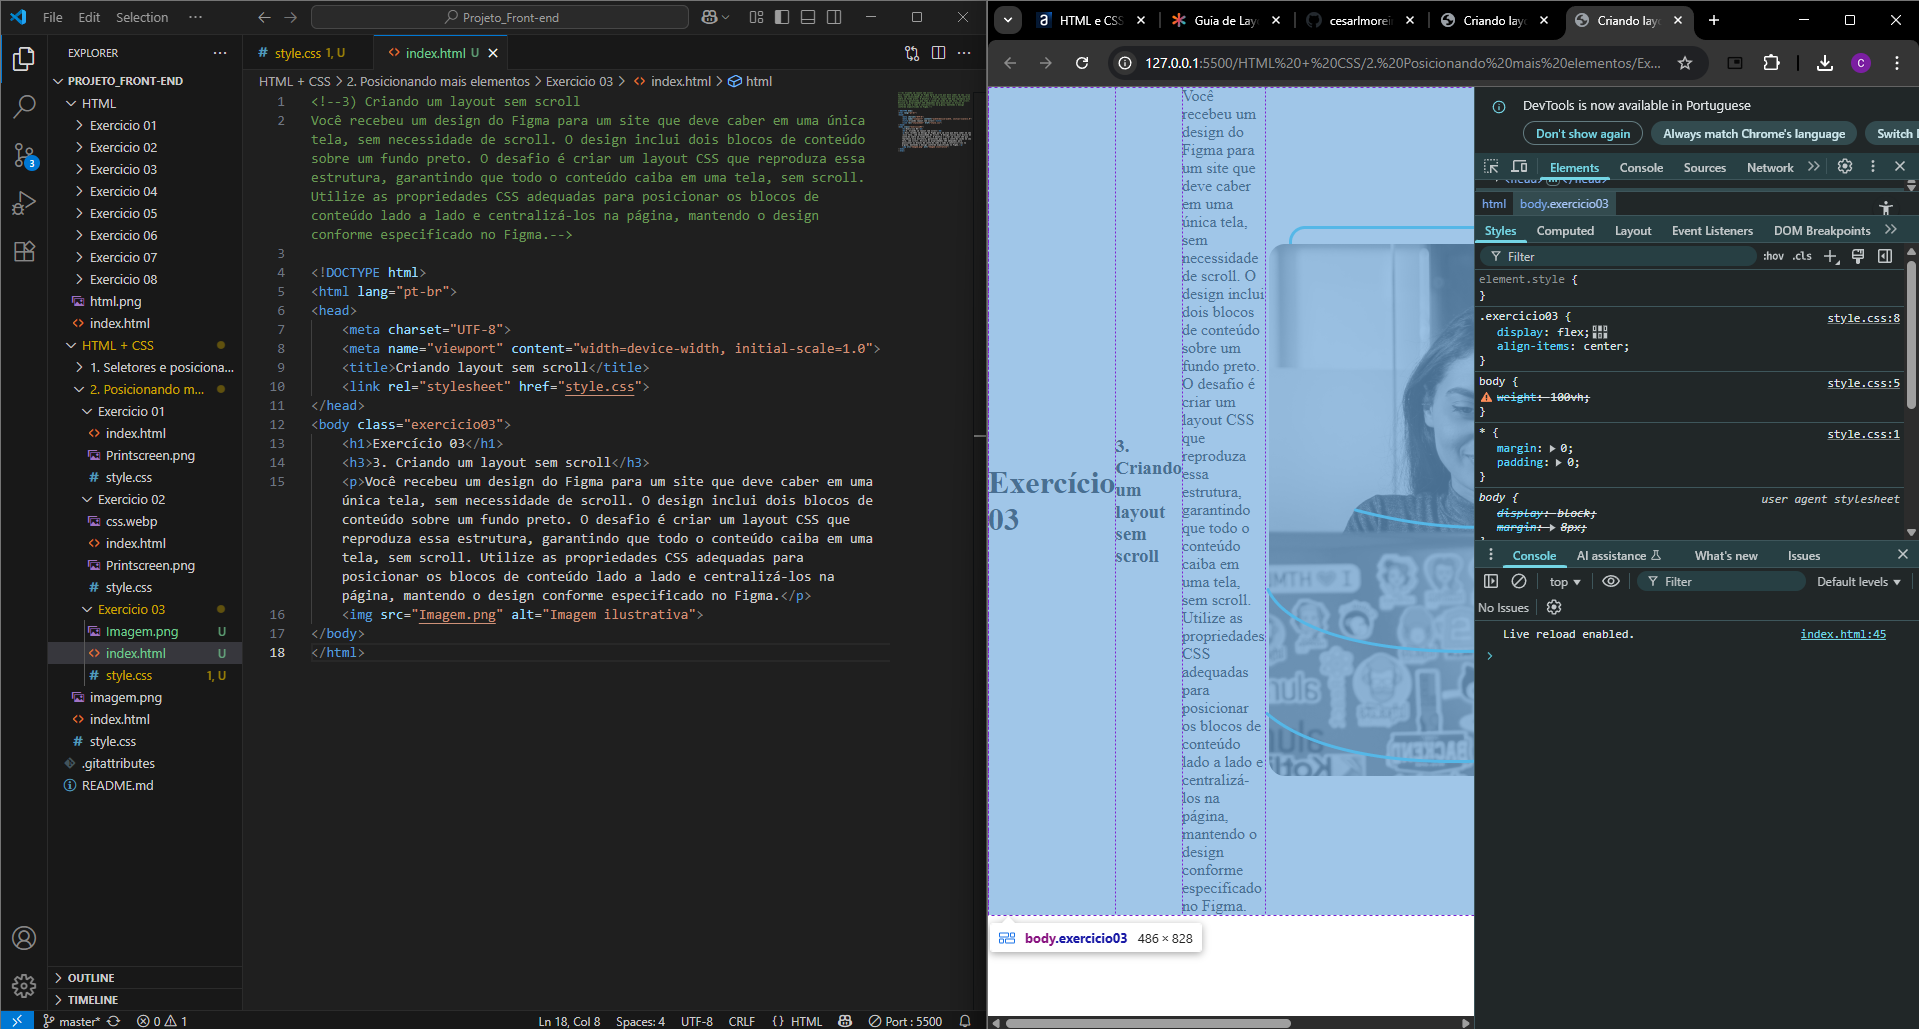
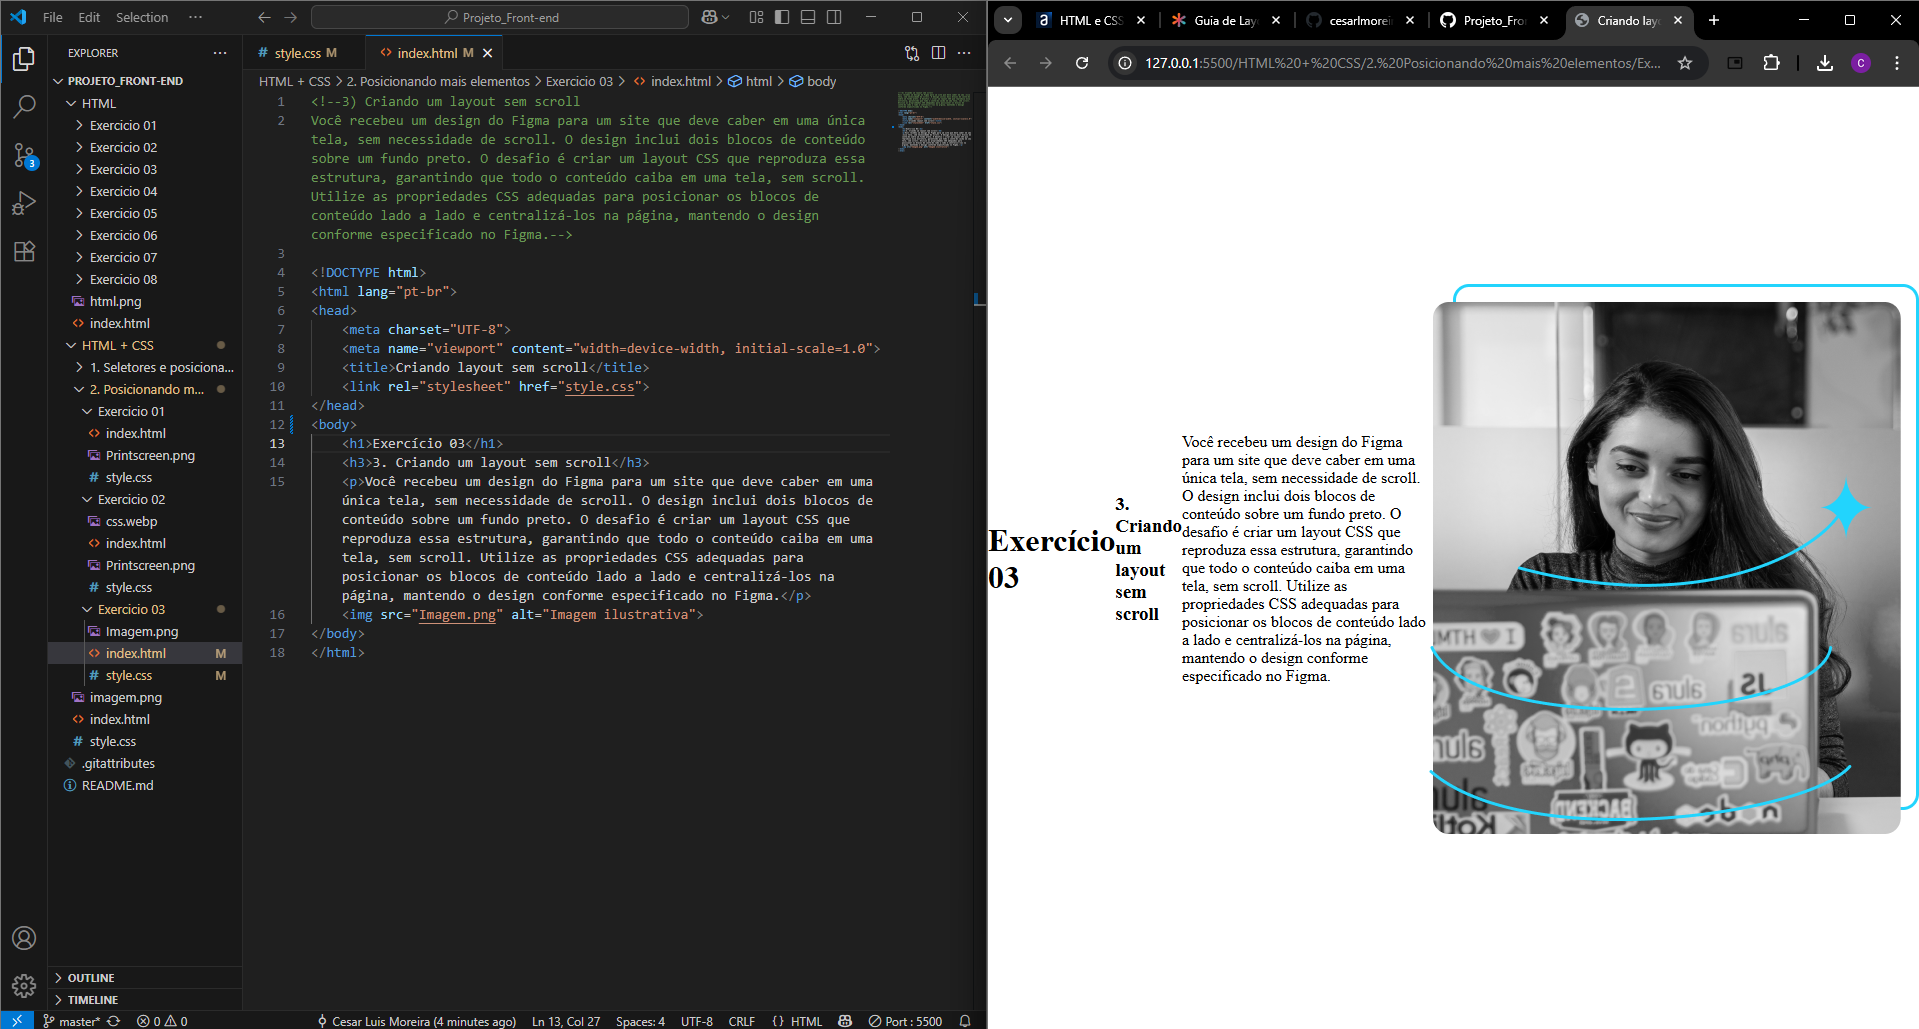
Exercicio resolvido

diff --git a/HTML + CSS/2. Posicionando mais elementos/Exercicio 03/index.html b/HTML + CSS/2. Posicionando mais elementos/Exercicio 03/index.html
@@ -9,7 +9,7 @@ Você recebeu um design do Figma para um site que deve caber em uma única tela,
     <title>Criando layout sem scroll</title>
     <link rel="stylesheet" href="style.css">
 </head>
-<body class="exercicio03">
+<body>
     <h1>Exercício 03</h1> 
     <h3>3. Criando um layout sem scroll</h3>
     <p>Você recebeu um design do Figma para um site que deve caber em uma única tela, sem necessidade de scroll. O design inclui dois blocos de conteúdo sobre um fundo preto. O desafio é criar um layout CSS que reproduza essa estrutura, garantindo que todo o conteúdo caiba em uma tela, sem scroll. Utilize as propriedades CSS adequadas para posicionar os blocos de conteúdo lado a lado e centralizá-los na página, mantendo o design conforme especificado no Figma.</p>

diff --git a/HTML + CSS/2. Posicionando mais elementos/Exercicio 03/style.css b/HTML + CSS/2. Posicionando mais elementos/Exercicio 03/style.css
@@ -3,9 +3,9 @@
     padding: 0;
 }
 body {
-    weight: 100vh;
-}
-.exercicio03 {
-    display: flex;
-    align-items: center    
+    display:flex;
+    justify-content: center;
+    align-items: center;
+    height: 100vh;
+    width: 100%;
 }
